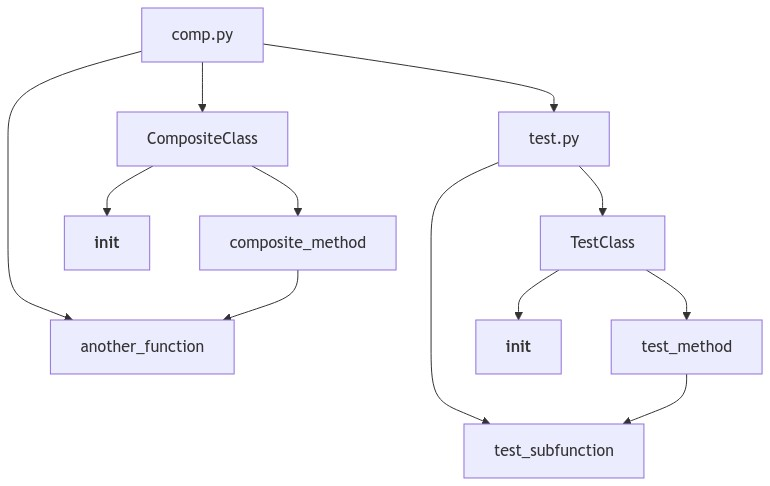
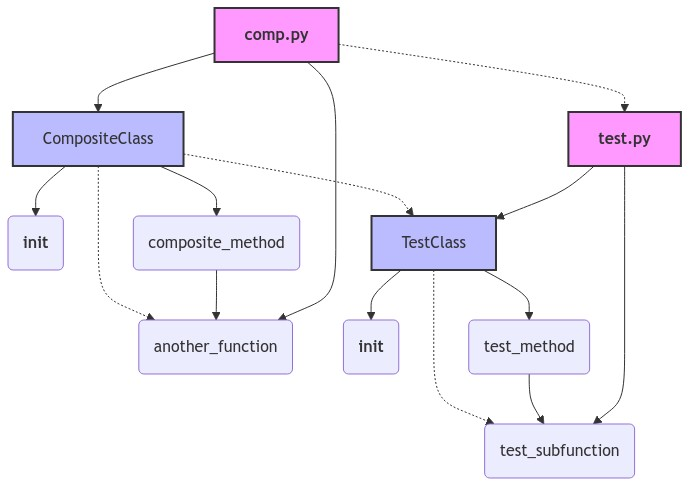
many thanks to pair programmer

diff --git a/eoh/tools/repo.py b/eoh/tools/repo.py
@@ -281,11 +281,99 @@ def build_minimal_mermaid_graph(directory, file_name):
     return _build_minimal_mermaid_graph(module_dict, file_name)
 
 
+# def build_cross_file_mermaid_graph(directory, file_name):
+#     graph = ['graph TD']
+#     node_counter = 0
+#     all_nodes = {}
+#     processed_files = set()
+#     class_dependencies = {}
+
+#     def get_node_id():
+#         nonlocal node_counter
+#         node_counter += 1
+#         return f'node{node_counter}'
+
+#     def process_file(file_path):
+#         if file_path in processed_files:
+#             return
+#         processed_files.add(file_path)
+
+#         rel_file_name = os.path.relpath(file_path, directory)
+#         module_dict = parse_module(file_path)
+        
+#         # Add file node
+#         file_id = get_node_id()
+#         all_nodes[rel_file_name] = file_id
+#         graph.append(f'    {file_id}["{rel_file_name}"]')
+        
+#         # Process top-level functions
+#         for func_name, func_info in module_dict['functions'].items():
+#             func_id = get_node_id()
+#             all_nodes[f"{rel_file_name}:{func_name}"] = func_id
+#             graph.append(f'    {func_id}["{func_name}"]')
+#             graph.append(f'    {file_id} --> {func_id}')
+            
+#             # Add function calls
+#             for called_func in func_info['calls']:
+#                 add_call_edge(rel_file_name, func_name, called_func)
+        
+#         # Process classes
+#         for class_name, class_info in module_dict['classes'].items():
+#             class_id = get_node_id()
+#             all_nodes[f"{rel_file_name}:{class_name}"] = class_id
+#             graph.append(f'    {class_id}["{class_name}"]')
+#             graph.append(f'    {file_id} --> {class_id}')
+            
+#             class_dependencies[f"{rel_file_name}:{class_name}"] = set()
+            
+#             for method_name, method_info in class_info['methods'].items():
+#                 method_id = get_node_id()
+#                 all_nodes[f"{rel_file_name}:{class_name}.{method_name}"] = method_id
+#                 graph.append(f'    {method_id}["{method_name}"]')
+#                 graph.append(f'    {class_id} --> {method_id}')
+                
+#                 # Add method calls
+#                 for called_func in method_info['calls']:
+#                     add_call_edge(rel_file_name, f"{class_name}.{method_name}", called_func)
+#                     class_dependencies[f"{rel_file_name}:{class_name}"].add(called_func)
+
+#         # Process imports and add connections
+#         imports = parse_imports(file_path)
+#         for imp in imports:
+#             imp_file = find_file(imp, directory)
+#             if imp_file:
+#                 process_file(os.path.join(directory, imp_file))
+#                 graph.append(f'    {file_id} --> {all_nodes[imp_file]}')
+
+#     def add_call_edge(file_name, caller, called_func):
+#         caller_id = all_nodes[f"{file_name}:{caller}"]
+#         for node_key, node_id in all_nodes.items():
+#             if node_key.endswith(f":{called_func}") or node_key.endswith(f".{called_func}"):
+#                 graph.append(f'    {caller_id} --> {node_id}')
+#                 break
+
+#     # Start processing from the given file
+#     start_file_path = os.path.join(directory, file_name)
+#     process_file(start_file_path)
+
+#     # Add class dependency connections
+#     for class_key, dependencies in class_dependencies.items():
+#         class_id = all_nodes[class_key]
+#         for dep in dependencies:
+#             for node_key, node_id in all_nodes.items():
+#                 if node_key.endswith(f":{dep}") or node_key.endswith(f".{dep}"):
+#                     graph.append(f'    {class_id} --> {node_id}')
+#                     break
+
+#     return '\n'.join(graph)
+
+
 def build_cross_file_mermaid_graph(directory, file_name):
     graph = ['graph TD']
     node_counter = 0
     all_nodes = {}
     processed_files = set()
+    class_dependencies = {}
 
     def get_node_id():
         nonlocal node_counter
@@ -303,26 +391,40 @@ def build_cross_file_mermaid_graph(directory, file_name):
         # Add file node
         file_id = get_node_id()
         all_nodes[rel_file_name] = file_id
-        graph.append(f'    {file_id}["{rel_file_name}"]')
+        graph.append(f'    {file_id}["<b>{rel_file_name}</b>"]')
+        graph.append(f'    style {file_id} fill:#f9f,stroke:#333,stroke-width:2px')
         
-        # Process functions
-        for func_name in module_dict['functions']:
+        # Process top-level functions
+        for func_name, func_info in module_dict['functions'].items():
             func_id = get_node_id()
             all_nodes[f"{rel_file_name}:{func_name}"] = func_id
-            graph.append(f'    {func_id}["{func_name}"]')
+            graph.append(f'    {func_id}("{func_name}")')
             graph.append(f'    {file_id} --> {func_id}')
+            
+            # Add function calls
+            for called_func in func_info['calls']:
+                add_call_edge(rel_file_name, func_name, called_func)
         
         # Process classes
         for class_name, class_info in module_dict['classes'].items():
             class_id = get_node_id()
+            all_nodes[f"{rel_file_name}:{class_name}"] = class_id
             graph.append(f'    {class_id}["{class_name}"]')
+            graph.append(f'    style {class_id} fill:#bbf,stroke:#333,stroke-width:2px')
             graph.append(f'    {file_id} --> {class_id}')
             
-            for method_name in class_info['methods']:
+            class_dependencies[f"{rel_file_name}:{class_name}"] = set()
+            
+            for method_name, method_info in class_info['methods'].items():
                 method_id = get_node_id()
                 all_nodes[f"{rel_file_name}:{class_name}.{method_name}"] = method_id
-                graph.append(f'    {method_id}["{method_name}"]')
+                graph.append(f'    {method_id}("{method_name}")')
                 graph.append(f'    {class_id} --> {method_id}')
+                
+                # Add method calls
+                for called_func in method_info['calls']:
+                    add_call_edge(rel_file_name, f"{class_name}.{method_name}", called_func)
+                    class_dependencies[f"{rel_file_name}:{class_name}"].add(called_func)
 
         # Process imports and add connections
         imports = parse_imports(file_path)
@@ -330,17 +432,7 @@ def build_cross_file_mermaid_graph(directory, file_name):
             imp_file = find_file(imp, directory)
             if imp_file:
                 process_file(os.path.join(directory, imp_file))
-                graph.append(f'    {file_id} --> {all_nodes[imp_file]}')
-
-        # Process function and method calls
-        for func_name, func_info in module_dict['functions'].items():
-            for called_func in func_info['calls']:
-                add_call_edge(rel_file_name, func_name, called_func)
-
-        for class_name, class_info in module_dict['classes'].items():
-            for method_name, method_info in class_info['methods'].items():
-                for called_func in method_info['calls']:
-                    add_call_edge(rel_file_name, f"{class_name}.{method_name}", called_func)
+                graph.append(f'    {file_id} -.-> {all_nodes[imp_file]}')
 
     def add_call_edge(file_name, caller, called_func):
         caller_id = all_nodes[f"{file_name}:{caller}"]
@@ -353,7 +445,28 @@ def build_cross_file_mermaid_graph(directory, file_name):
     start_file_path = os.path.join(directory, file_name)
     process_file(start_file_path)
 
+    # Add class dependency connections
+    for class_key, dependencies in class_dependencies.items():
+        class_id = all_nodes[class_key]
+        for dep in dependencies:
+            for node_key, node_id in all_nodes.items():
+                if node_key.endswith(f":{dep}") or node_key.endswith(f".{dep}"):
+                    graph.append(f'    {class_id} -.-> {node_id}')
+                    break
+
+    # Add legend
+    # graph.append('    subgraph Legend [Legend]')
+    # graph.append('        direction LR')  # Sets the layout to left-to-right
+    # graph.append('        legend_file["File"] --- legend_function["Function"] --- legend_class["Class"]')
+    # graph.append('    end')
+    # graph.append('    style legend_file fill:#f9f,stroke:#333,stroke-width:2px')
+    # graph.append('    style legend_function fill:#fff,stroke:#333,stroke-width:1px')
+    # graph.append('    style legend_class fill:#bbf,stroke:#333,stroke-width:2px')
+    # graph.append('    classDef legendItem width:100px, height:50px, text-align:center;')  # Adjusted width and height for better visibility
+    # graph.append('    class legend_file,legend_function,legend_class legendItem;')
+
     return '\n'.join(graph)
+
 
 
 def visualize_function_level_graph(mermaid_code):
